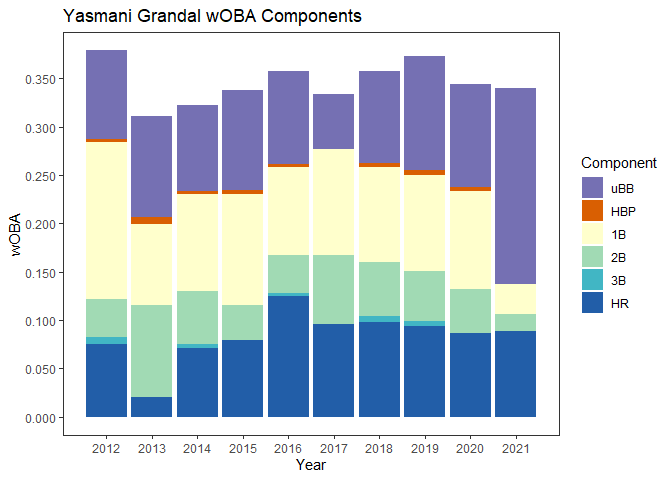
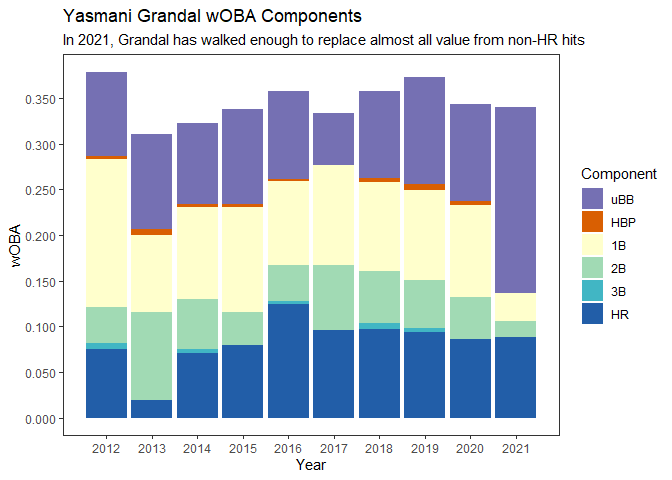
finalize rmd

diff --git a/README.md b/README.md
@@ -7,6 +7,10 @@ but How Is He Making It
 Work?”](https://www.si.com/mlb/2021/06/02/yasmani-grandal-the-opener).
 Here’s my attempt to visualize Yasmani Grandal’s absurd 2021 stat line.
 
+This readme contains all of the analysis and functions to automate the
+data prep and wOBA component calculation steps can be found in
+99\_woba-functions.R
+
 # Load the stats
 
 We’re going to grab Yasmani Grandal’s stats from baseball-reference. You
@@ -74,22 +78,6 @@ yasmani_stats_prepped <- yasmani_stats %>%
   # we only want to keep columns that matter for wOBA calculation plus a few identifiers
   select(all_of(identifier_cols), all_of(weight_cols)) %>% 
   pivot_longer(all_of(weight_cols), names_to = "stat", values_to = "total")
-
-yasmani_stats_prepped
-#> # A tibble: 80 x 7
-#>     Year   Age Tm    Lg        G stat  total
-#>    <dbl> <dbl> <chr> <chr> <dbl> <chr> <dbl>
-#>  1  2012    23 SDP   NL       60 uBB      30
-#>  2  2012    23 SDP   NL       60 HBP       1
-#>  3  2012    23 SDP   NL       60 SF        2
-#>  4  2012    23 SDP   NL       60 AB      192
-#>  5  2012    23 SDP   NL       60 1B       41
-#>  6  2012    23 SDP   NL       60 2B        7
-#>  7  2012    23 SDP   NL       60 3B        1
-#>  8  2012    23 SDP   NL       60 HR        8
-#>  9  2013    24 SDP   NL       28 uBB      16
-#> 10  2013    24 SDP   NL       28 HBP       1
-#> # ... with 70 more rows
 ```
 
 Once we’ve got the data in the right format, we can compute the
@@ -110,23 +98,6 @@ yasmani_components <- yasmani_stats_prepped %>%
   mutate(wOBA_component = numer_component / denom_year) %>% 
   select(all_of(identifier_cols), stat, total, 
          wOBA_component, wOBA_year, numer_component, denom_component, denom_year)
-
-yasmani_components
-#> # A tibble: 80 x 12
-#>     Year   Age Tm    Lg        G stat  total wOBA_component wOBA_year
-#>    <dbl> <dbl> <chr> <chr> <dbl> <chr> <dbl>          <dbl>     <dbl>
-#>  1  2012    23 SDP   NL       60 uBB      30        0.092       0.379
-#>  2  2012    23 SDP   NL       60 HBP       1        0.0032      0.379
-#>  3  2012    23 SDP   NL       60 SF        2        0           0.379
-#>  4  2012    23 SDP   NL       60 AB      192        0           0.379
-#>  5  2012    23 SDP   NL       60 1B       41        0.162       0.379
-#>  6  2012    23 SDP   NL       60 2B        7        0.0395      0.379
-#>  7  2012    23 SDP   NL       60 3B        1        0.0072      0.379
-#>  8  2012    23 SDP   NL       60 HR        8        0.0747      0.379
-#>  9  2013    24 SDP   NL       28 uBB      16        0.104       0.311
-#> 10  2013    24 SDP   NL       28 HBP       1        0.00679     0.311
-#> # ... with 70 more rows, and 3 more variables: numer_component <dbl>,
-#> #   denom_component <dbl>, denom_year <dbl>
 ```
 
 # Plotting wOBA components
@@ -134,82 +105,7 @@ yasmani_components
 First, a quick plot of Yasmani Grandal’s wOBA over the years against
 some thresholds from [FanGraph’s
 glossary](https://library.fangraphs.com/offense/woba/):
-
-``` r
-yasmani_wOBA_only <- yasmani_components %>% 
-  with_groups(all_of(identifier_cols), summarize,
-              numer = sum(numer_component),
-              denom = sum(denom_component)) %>% 
-  mutate(wOBA = numer / denom, .keep = "unused")
-
-
-# a few other things
-wOBA_thresholds <- tribble(
-  ~Rating,         ~wOBA,
-  "Excellent",     .400,
-  "Great",         .370,
-  "Above Average", .340,
-  "Average",       .320,
-  "Below Average", .310,
-  "Poor",          .300,
-  "Awful",         .290
-)
-
-years <- yasmani_wOBA_only$Year
-comp_color <- "grey40"
-
-# grab a tiny bit of info about his best year
-best_year <- yasmani_wOBA_only %>% 
-  filter(G > 60) %>% 
-  slice_max(wOBA, n = 1) %>% 
-  mutate(wOBA_format = scales::number(wOBA, accuracy = 0.001),
-         by_lab = glue::glue("Career best: {wOBA_format}\nin {Year} with {Tm}"))
-
-wOBA_plot_basics <- ggplot(mapping = aes(x = Year, wOBA)) +
-  scale_x_continuous(breaks = years, minor_breaks = NULL) +
-  theme_bw() +
-  theme(panel.grid = element_blank())
-
-wOBA_plot_basics +
-  geom_hline(aes(yintercept = wOBA), 
-             data = wOBA_thresholds, 
-             color = comp_color) +
-  geom_text(aes(label = Rating), 
-            data = wOBA_thresholds, 
-            x = max(years) + 1, 
-            nudge_y = 0.003,
-            color = comp_color) +
-  geom_line(data = yasmani_wOBA_only) +
-  geom_point(data = yasmani_wOBA_only) +
-  geom_text(aes(label = by_lab), data = best_year, nudge_y = 0.01) +
-  scale_y_continuous("wOBA", breaks = wOBA_thresholds$wOBA,
-                     labels = scales::label_number(accuracy = 0.001)) +
-  expand_limits(x = max(years + 1.5)) +
-  ggtitle("Yasmani Grandal wOBA")
-```
-
 ![](README_files/figure-gfm/wOBA%20plot-1.png)<!-- -->
 
 Then a first attempt to plot the impact that each hitting outcome had
-each year.
-
-``` r
-# only want the stats that positively contribute to wOBA, make it a factor
-yasmani_components_forplot <- yasmani_components %>% 
-  semi_join(filter(wOBA_numer_weights, numer_weight > 0), by = "stat") %>% 
-  mutate(stat_ord = fct_relevel(stat, "uBB", "HBP", "1B", "2B", "3B", "HR")) %>% 
-  rename(wOBA = wOBA_component)
-
-colors <- c("#7570b3", "#d95f02", "#ffffcc", "#a1dab4", "#41b6c4", "#225ea8")
-
-wOBA_plot_basics +
-  geom_bar(aes(fill = stat_ord),
-           data = yasmani_components_forplot,
-           stat = "identity", position = "stack") +
-  scale_y_continuous("wOBA", breaks = seq(0, 0.6, by = 0.05),
-                     labels = scales::label_number(accuracy = 0.001)) +
-  scale_fill_manual("Component", values = colors) +
-  ggtitle("Yasmani Grandal wOBA Components")
-```
-
-![](README_files/figure-gfm/components%20plot-1.png)<!-- -->
+each year. ![](README_files/figure-gfm/components%20plot-1.png)<!-- -->
